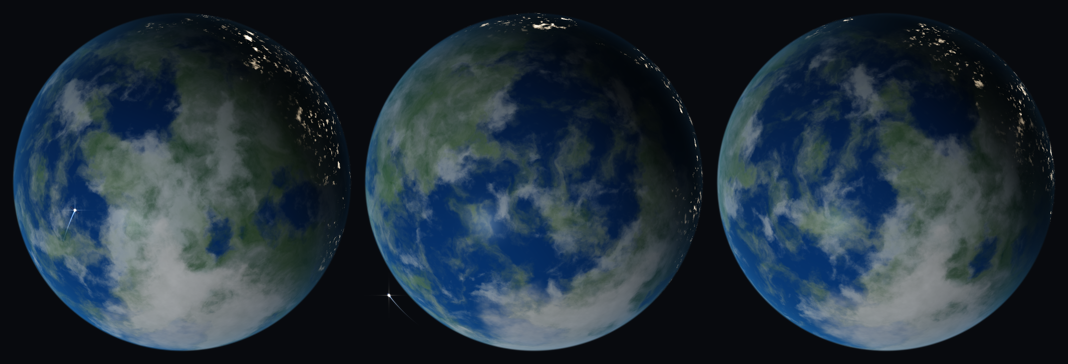
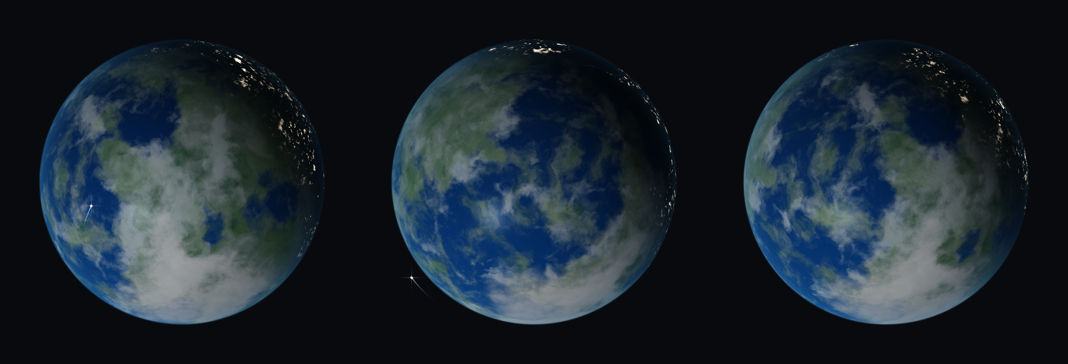
Say that the stations are settings
The README shows the five fields and says why more than one is not
beads on a string; the changelog carries them under Added and the
clipped station under Fixed. Both images re-rendered from the shader.

diff --git a/CHANGELOG.md b/CHANGELOG.md
@@ -35,6 +35,18 @@ Changing how the shader draws a given recipe is a minor version and is noted und
     transit and over space as something moving, not as a lens flare.
 
   Ice, life and lights all sit on ground, so a gas giant gets none of them.
+- **The stations are settings.** `stationCount`, `stationOrbitRadius`, `stationSpeed`,
+  `stationInclination` and `stationSize`, defaulting to the one station a spacefaring world
+  already flew. More than one share the orbit's radius, speed and inclination but not its
+  plane or phase, so they do not read as beads on a string. Both workbenches have the sliders.
+- **`drawnExtent`** — how far from the disc's centre the shader draws, in planet radii. A
+  view that sizes the body against a square divides by it; it is the number the shader uses
+  for its own framing, so the two cannot disagree.
+
+### Fixed
+- **A station on a ringless planet was cut off at the edge of the square.** The canvas
+  stopped at the limb and the orbit is outside it. The framing now zooms out to hold the
+  orbit, the trail and the glint, the way it already did for rings.
 
 ### Changed
 - The light direction was computed inline in three places and is now one function. A day

diff --git a/README.md b/README.md
@@ -206,6 +206,19 @@ a hard core with four screen-aligned spikes rather than a halo, so it reads as a
 point. Behind it a short trail along the orbit is what makes a moving thing read as moving in
 a still frame; it is cut at the limb where the station just came out.
 
+```swift
+recipe.stationCount = 2            // 0 turns them off; one by default
+recipe.stationOrbitRadius = 1.3    // planet radii; 1.085 crosses the disc rather than skirting it
+recipe.stationSpeed = 0.4          // radians a second; precession follows it
+recipe.stationInclination = 0.9    // to the equator; ~51°, as the ISS flies
+recipe.stationSize = 1.5           // a multiplier, and never below a pixel
+```
+
+More than one share the orbit's radius, speed and inclination but not its plane or its
+phase — spaced evenly around one circle they would read as beads on a string. The canvas
+zooms out to hold whatever orbit is set, so `drawnExtent` on the recipe is what a view
+should divide by when it sizes the body against a square.
+
 ## A day that passes
 
 ![One world through its day](Documentation/day-cycle.png)
